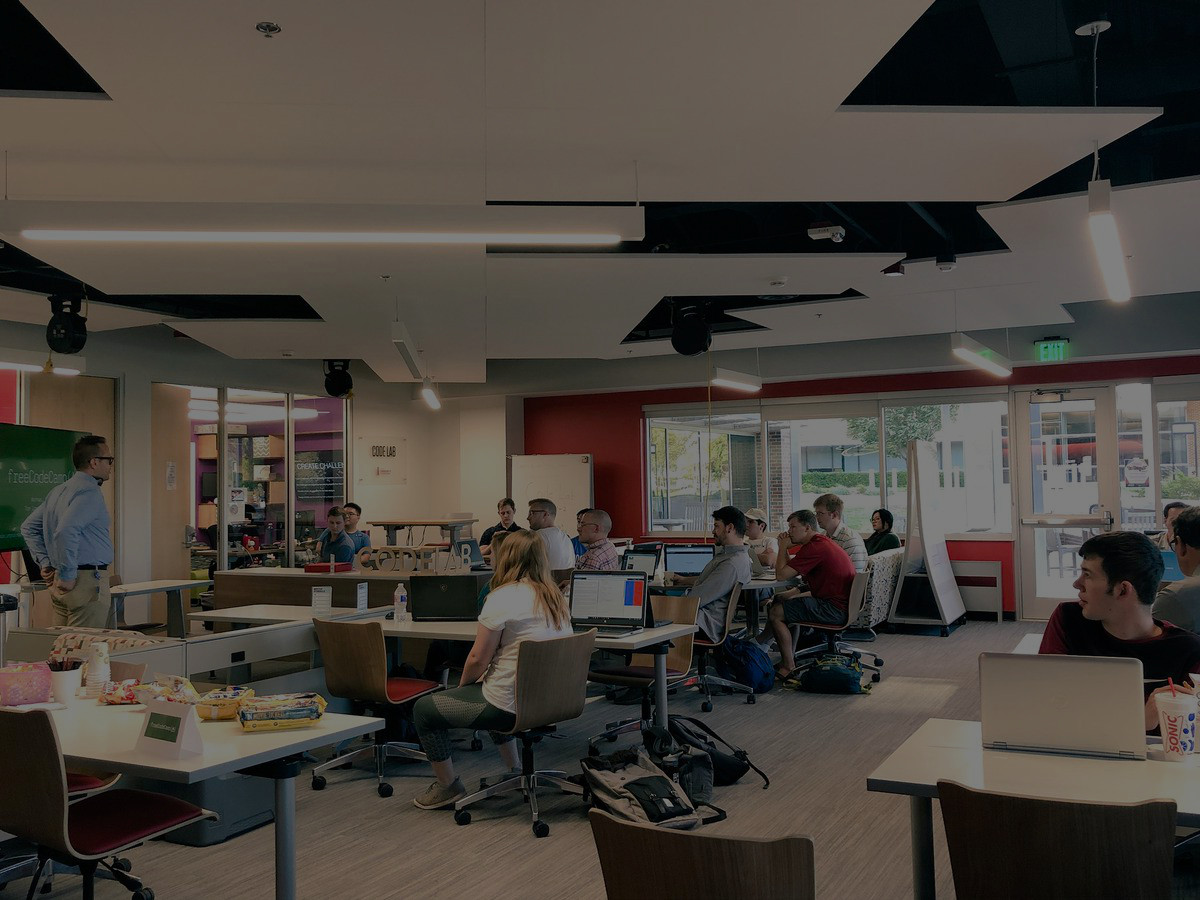
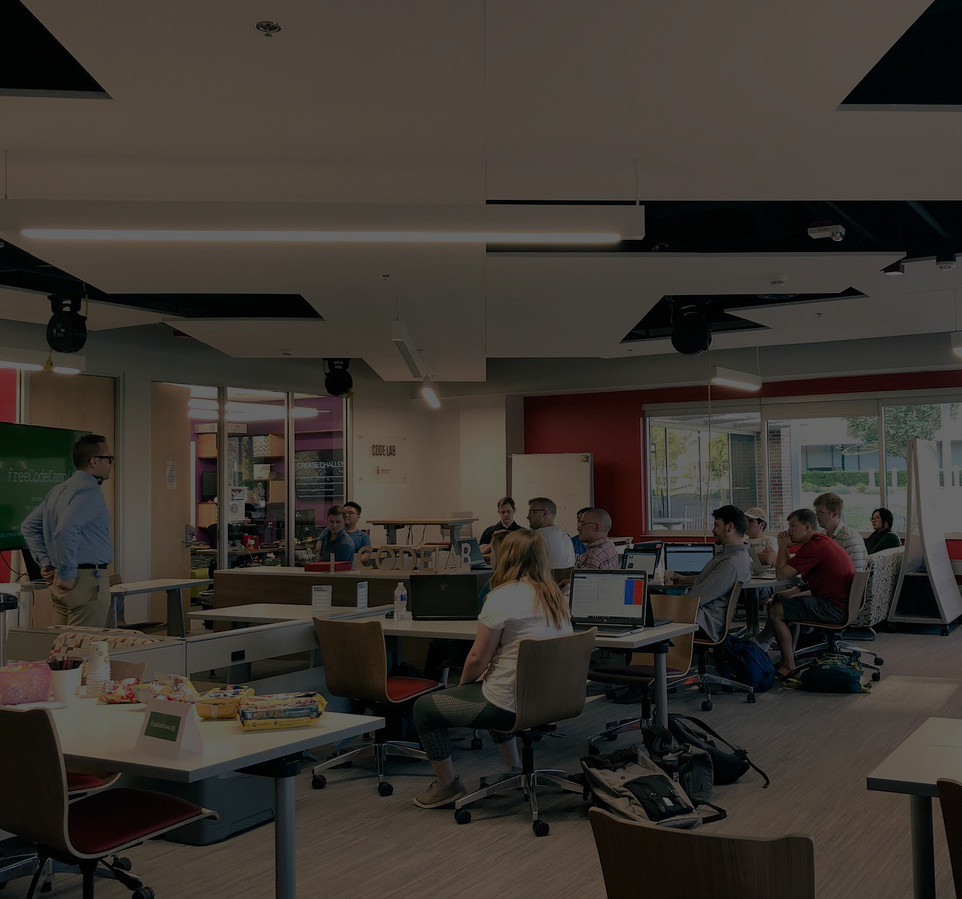
Homepage design update

diff --git a/index.html b/index.html
@@ -3,36 +3,55 @@ layout: home
 ---
 
 <header class="hero">
-    <h1>freeCodeCamp Norman</h1>
+    <h1 class="text-center">freeCodeCamp Norman<br>Study Group</h1>
 </header>
 
-<main class="container">
-    <div class="row">
-        <div class="col">
-            <h1>freeCodeCamp Norman Study Group</h1>
+<main>
+    <section class="what-is-fcc">
+        <div class="container-fluid">
+            <div class="row">
+                <div class="col-md-7 offset-md-1 d-flex align-items-center">
+                    <div class="content">
+                        <h2 class="section-heading">What is freeCodeCamp.org?</h2>
 
-            <p>We're at the <a href="https://www.ou.edu/innovationhub">Tom Love Innovation Hub</a> in Norman Oklahoma</p>
-
-            <p>Come learn HTML, CSS, JavaScript, and web development with us! From beginners looking to get started to
-                more experienced coders looking to help others while improving their own skills, everyone is welcome!</p>
-
-            <p> Join us and introduce yourself and meet others who are also learning to code. Create a free account on
-                <a href="https://www.freecodecamp.org/">freeCodeCamp.org</a> and bring your laptop if you have one! If
-                you don't have one, message one of the organizers on <a href="https://www.meetup.com/freecodecamp-norman/">Meetup.com</a>
-                and we will try and prepare one for you.</p>
-                
-            <p>Don't worry if you can't make it at 6:30 on the dot, or if you can't stay the whole two hours. Feel free to join us when you can and for as long as you want!</p>
-            
-            <h3>What is freeCodeCamp.org?</h3>
-            
-            <p>
-            <a href="https://www.freecodecamp.org/">FreeCodeCamp.org</a> is a supportive group of over one million coders who build projects, earn free certificates, and get experience by coding for non-profits. Go to
-            <a href="https://www.freecodecamp.org/">freeCodeCamp.org</a> to sign up for free online based tutorials and get started.</p>
-            
-            <h2>Calendar</h2>
-            
-            <p>You can find our up to date calendar and RSVP on <a href="https://www.meetup.com/freecodecamp-norman/">our Meetup page</a>. It's 100% Free!</p>
-            
+                        <p><a href="https://www.freecodecamp.org/">FreeCodeCamp.org</a> is a supportive group of over one million coders who build projects, earn free certificates, and get experience by coding for non-profits. Go to <a href="https://www.freecodecamp.org/">freeCodeCamp.org</a> to sign up for a free account and start learning with through the curriculum.</p>
+                    </div>
+                    
+                </div>
+                <div class="col-md-3 offset-md-1 d-flex justify-content-center align-items-center fcc-logo img-fluid">
+                    <img src="assets/images/fcc-logo.png" alt="freeCodeCamp Logo" width="250" height="250">
+                </div>
+            </div>
         </div>
-    </div>
+    </section>
+    <section class="about-us">
+        <div class="container">
+            <div class="row">
+                <div class="col">
+                    <h2 class="section-heading">About Us</h2>
+                    
+                    <p>We're a group focused on learning HTML, CSS, JavaScript, and web development using the freeCodeCamp curriculum. Everyone is welcome, from beginners looking to get started to more experienced coders looking to help others while improving their own skills. Join us and introduce yourself and meet others who are also learning to code. Create a free account on <a href="https://www.freecodecamp.org/">freeCodeCamp.org</a> and bring your laptop if you have one! If you don't have one, message one of the organizers on <a href="https://www.meetup.com/freecodecamp-norman/">Meetup.com</a>
+                    and we will try and prepare one for you.</p>
+                </div>
+            </div>
+        </div>
+    </section>
+    <section class="meetups">
+        <div class="container-fluid">
+            <div class="row">
+                <div class="col-lg-6 order-lg-2 d-flex align-items-center">
+                    <div class="content">
+                        <h2 class="section-heading">Meetups</h2>
+
+                        <p>We meet every Tuesday evening at 6:30pm at the <a href="https://www.ou.edu/innovationhub">Tom Love Innovation Hub</a> on the South Research Campus of the University of Oklahoma. Even though the meetups are hosted on campus, <strong>we're open to everyone!</strong> Don't worry if you can't make it at 6:30 on the dot, or if you can't stay the whole two hours. Feel free to join us when you can and for as long as you want.</p>
+                    </div>
+                </div>
+                <div class="col-lg-6 order-lg-1" style="padding-left: 0; padding-right: 0">
+                        <div class="embed-responsive embed-responsive-4by3">
+                            <iframe src="https://www.google.com/maps/embed?pb=!1m14!1m8!1m3!1d13043.654437095902!2d-97.4381237!3d35.1837057!3m2!1i1024!2i768!4f13.1!3m3!1m2!1s0x0%3A0x44c623393c0064b6!2sOU+Tom+Love+Innovation+Hub!5e0!3m2!1sen!2sus!4v1540326570111" width="600" height="450" frameborder="0" style="border:0" allowfullscreen></iframe>
+                        </div>
+                </div>
+            </div>
+        </div>
+    </section>
 </main>

diff --git a/_layouts/home.html b/_layouts/home.html
@@ -1,33 +1,36 @@
 <!doctype html>
 <html lang="en">
-  <head>
-    <!-- Required meta tags -->
-    <meta charset="utf-8">
-    <meta name="viewport" content="width=device-width, initial-scale=1, shrink-to-fit=no">
 
-    <!-- Bootstrap CSS -->
-    <link rel="stylesheet" href="assets/css/bootstrap.min.css">
-    <link rel="stylesheet" href="assets/css/styles.css">
-    <link rel="stylesheet" href="assets/css/home.css">
+<head>
+  <!-- Required meta tags -->
+  <meta charset="utf-8">
+  <meta name="viewport" content="width=device-width, initial-scale=1, shrink-to-fit=no">
 
-    <!-- Favicon -->
-    <link rel="icon" href="assets/images/fcc-logo.png">
+  <!-- Bootstrap CSS -->
+  <link rel="stylesheet" href="assets/css/bootstrap.min.css">
+  <link rel="stylesheet" href="assets/css/styles.css">
+  <link rel="stylesheet" href="assets/css/home.css">
+  <link href="https://fonts.googleapis.com/css?family=Hind+Madurai|Montserrat" rel="stylesheet">
+  <!-- Favicon -->
+  <link rel="icon" href="assets/images/fcc-logo.png">
 
-    <title>freeCodeCamp Norman</title>
-  </head>
-  <body>
+  <title>freeCodeCamp Norman</title>
+</head>
 
-    {% include navbar.html %}
-    {{ content }}
-    <div class="container">
-      <hr/>
-      <p>Help us improve this page. Fork it on <a href="https://github.com/freecodecampnorman/freecodecampnorman.github.io">GitHub</a>!
-    </div>
+<body>
 
-    <!-- Optional JavaScript -->
-    <!-- jQuery first, then Popper.js, then Bootstrap JS -->
-    <script src="assets/js/jquery-3.3.1.slim.min.js"></script>
-    <script src="assets/js/popper.min.js"></script>
-    <script src="assets/js/bootstrap.min.js"></script>
-  </body>
+  {% include navbar.html %}
+  {{ content }}
+  <div class="container">
+    <hr />
+    <p>Help us improve this page. Fork it on <a href="https://github.com/freecodecampnorman/freecodecampnorman.github.io">GitHub</a>!
+  </div>
+
+  <!-- Optional JavaScript -->
+  <!-- jQuery first, then Popper.js, then Bootstrap JS -->
+  <script src="assets/js/jquery-3.3.1.slim.min.js"></script>
+  <script src="assets/js/popper.min.js"></script>
+  <script src="assets/js/bootstrap.min.js"></script>
+</body>
+
 </html>

diff --git a/assets/css/home.css b/assets/css/home.css
@@ -1,9 +1,104 @@
 body {
-    padding-top: 55px;
+    color: #333;
+    font-size: 20px;
+    font-family: 'Hind Madurai', 'Helvetica', ssans-serif;
 }
 
 .hero {
-    height: 500px;
-    background: url("../images/fccbg.jpg") no-repeat 0px -600px;
+    min-height: 500px;
+    height: 40vh;
+    background: url("../images/fccbg.jpg") fixed no-repeat 0 -500px;
     background-size: cover;
+    display: flex;
+    align-items: center;
+    justify-content: center;
 }
+
+.hero h1 {
+    font-family: 'Montserrat', 'Helvetica', sans-serif;
+    font-weight: bold;
+    color: white;
+    font-size: 3em;
+}
+
+.section-heading {
+    font-family: 'Montserrat', 'Helvetica', sans-serif;
+    margin-bottom: 40px;
+    font-size: 2em;
+    margin-top: 0;
+}
+
+.what-is-fcc {
+    padding: 0;
+}
+
+/* .what-is-fcc .section-heading {
+    margin-top: 100px;
+} */
+
+.fcc-logo {
+    background: #006400;
+}
+
+.fcc-logo img {
+    max-width: 100%;
+    width: 250px;
+    height: auto;
+}
+
+.about-us {
+    background: #eee;
+    padding: 100px 0;
+    text-align: center;
+}
+
+/* Small devices (landscape phones, 576px and up) */
+@media (max-width: 576px) {
+    .hero h1 {
+        font-size: 2em;
+    }
+    
+    .section-heading {
+        text-align: center;
+    }
+    
+    .what-is-fcc .section-heading,
+    .meetups .section-heading {
+        margin-top: 50px;
+    }
+    
+    .what-is-fcc p {
+        padding-bottom: 50px;
+    }
+}
+
+@media(min-width: 576px) {
+    .section-heading {
+        margin-top: 50px;
+    }
+}
+
+/* Medium devices (tablets, 768px and up) */
+@media (min-width: 768px) {    
+    .about-us .section-heading {
+        margin-top: 0;
+    }
+    
+    .what-is-fcc p {
+        margin-bottom: 100px;
+    }
+    
+    .section-heading {
+        margin-top: 50px;
+    }
+}
+
+/* Large devices (desktops, 992px and up) */
+@media (min-width: 992px) {
+    .meetups .content {
+        margin-left: 25px;
+    }
+}
+
+/* Extra large devices (large desktops, 1200px and up) */
+@media (min-width: 1200px) { ... }

diff --git a/_layouts/default.html b/_layouts/default.html
@@ -8,6 +8,7 @@
     <!-- Bootstrap CSS -->
     <link rel="stylesheet" href="assets/css/bootstrap.min.css">
     <link rel="stylesheet" href="assets/css/styles.css">
+    <link href="https://fonts.googleapis.com/css?family=Hind+Madurai|Montserrat" rel="stylesheet">
 
     <!-- Favicon -->
     <link rel="icon" href="assets/images/fcc-logo.png">

diff --git a/assets/css/styles.css b/assets/css/styles.css
@@ -1,3 +1,8 @@
+h1, h2, h3, h4, h5, h6 {
+    font-family: 'Montserrat', 'Helvetica', sans-serif;
+}
+
 body {
-    padding-top: 80px;
+    padding-top: 55px;
+    font-family: 'Hind Madurai', 'Helvetica', ssans-serif;
 }
